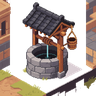
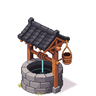
修复水井贴图边缘碎片与行人贴图误生成小房子：抠图仅保留主体连通块，行人提示词强调 human figure

diff --git a/tools/gen_ai_assets.py b/tools/gen_ai_assets.py
@@ -87,7 +87,7 @@ STYLE_SINGLE = STYLE  # 树/行人同一风格
 # 单贴图素材：文件名 -> (提示词, 目标尺寸)
 SINGLES = {
     "tree.png": ("one single lush Chinese pine tree with layered cloud-like green foliage and a visible brown trunk, the tree only, no pavilion, no building, no structure", SIZE_TREE),
-    "villager.png": ("one single tiny ancient Chinese villager wearing a grey robe and a straw hat, walking pose, complete full body from head to toe clearly visible, side view, the person only", SIZE_VILLAGER),
+    "villager.png": ("one single ancient Chinese farmer walking, a human figure with head, two arms and two legs clearly visible, wearing a grey robe and a straw hat, full body from head to toe, side view, person only, no house, no building, no structure", SIZE_VILLAGER),
     "well.png": ("a traditional Chinese stone water well built of grey stone blocks with a small wooden roof frame and a hanging wooden bucket on a rope, dark tiled little roof", SIZE_1X1),
 }
 
